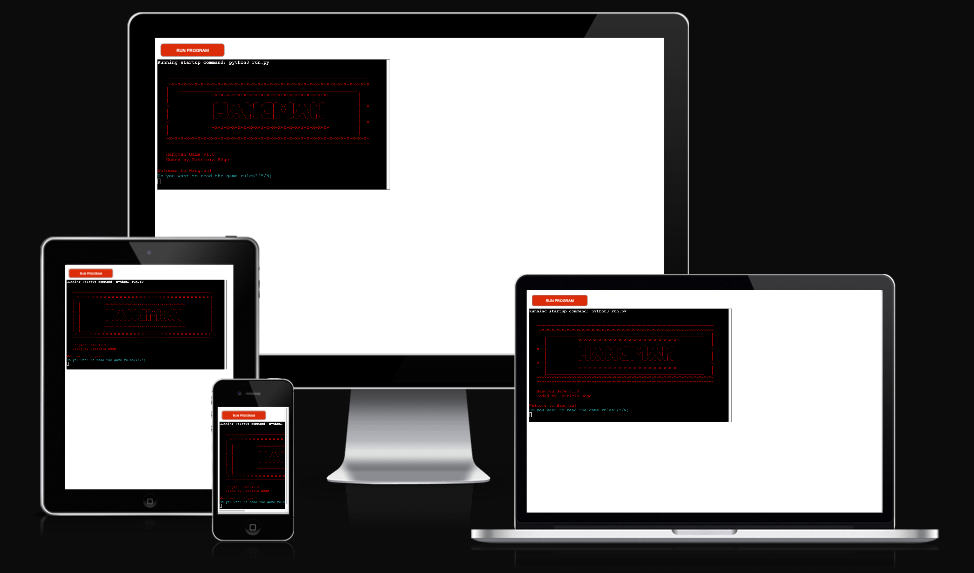
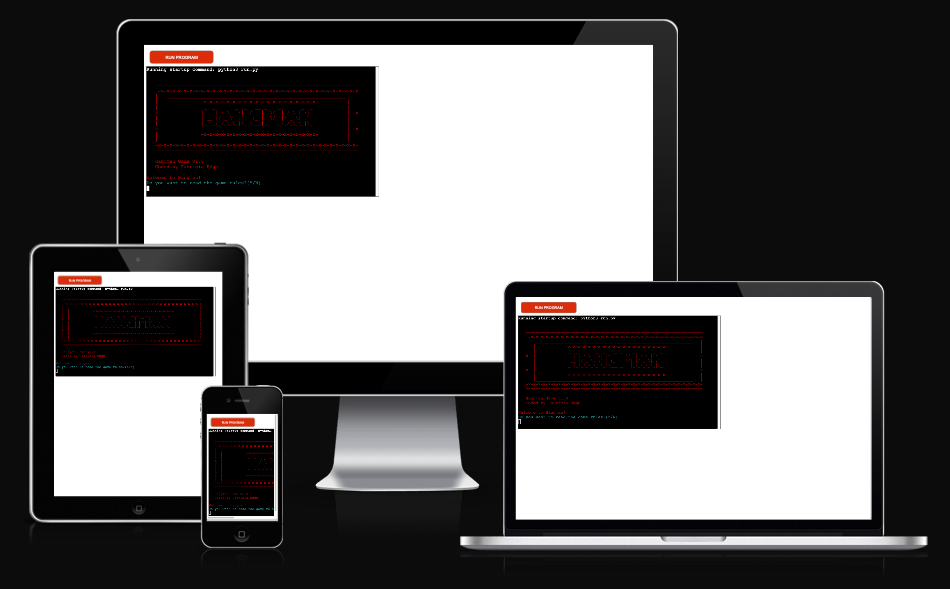
update img in read me file and delete the print word

Changed region(s): [[0.0305, 0.0, 0.9768, 0.9494]]

diff --git a/game_ascii_art.py b/game_ascii_art.py
@@ -46,7 +46,7 @@ RULES = (
    x  |      guessing letters.                                        |  x
    |  |  2 - If too many letters which do not appear in the           |  |
    |  |      word are guessed,the player is hanged and loses.         |  |
-   x  |  3 - As letters in the word are guessed,will be written.      |  x
+   x  |  3 - As letters in the word are guessed, will be written.     |  x
    x  |  4 - The hangman is drawn in 6 parts(for 6 letter guesses)    |  x
    |  |                                                               |  |
    |  |_______________________________________________________________|  |

diff --git a/run.py b/run.py
@@ -95,7 +95,6 @@ def game(word):
         secret_word = display_word(word, guessed_letters)
         print(display_hangman(remaining_attempts))
         print(secret_word)
-        print(word)
 
         if secret_word == word:
             guessed = True

diff --git a/README.md b/README.md
@@ -21,7 +21,7 @@ Once the game is over the user is presented with the option to initiate another 
 + [Features](#features "Features")
   + [Existing Features](#existing-features "Existing Features")
     + [Landing Page](#landing-page "Landing Page")
-    + [Play Again](#play-again "Play Again or Quit App")
+    + [Next Round](#next-round "Play Again or Quit App")
   + [Features Left to Implement](#features-left-to-implement "Features Left to Implement")
 + [Testing](#testing "Testing")
   + [Validator Testing](#validator-testing "Validator Testing")
@@ -59,6 +59,7 @@ New users are encouraged to experiment with the computer-based version of the ol
 ### Future Goals:
 Make the game more challenging by introducing multiple difficulty levels for the user to choose to play and implementing a scoring leaderboard.
 
+[Back to top](<#table-of-contents>)
 ### Mock-up:
 ![App functionality Wireframe](assets/images-readme/mock-up.png)
 
@@ -74,7 +75,7 @@ The landing page displays the title of the game, the name of the developer, and 
 
 #### Possible Outcomes:
 The player may encounter three potential scenarios when making a letter choice: 
-+ The letter `is` present in the word, the letter `is not` part of the word.
++ The letter `is` present in the word, the letter `is not` part of the word. Providing the player with a list of the letters that have been already guessed.
   * ![Possible Outcomes](assets/images-readme/guess-is-in-word.png)
   * ![Possible Outcomes](assets/images-readme/guess-is-not-in-word.png)
 + The letter has been previously guessed by the player. 
@@ -82,8 +83,8 @@ The player may encounter three potential scenarios when making a letter choice:
 + Additionally, any input other than a single letter will be considered invalid, and it will not result in the deduction of a life.
   * ![Possible Outcomes](assets/images-readme/invalid-guess.png)
 
-#### Play Again:
-Whether the player wins or loses the game, a banner of `Play Again` with its current `Victory` or `Game Over` will be displayed. The player has the option to continue playing or quit the game.
+#### Next Round:
+After the game, regardless of whether the player wins or loses, a prompt will appear asking if they wish to continue with their current `Victory` or `Game Over`. The player can choose to keep playing or quit the game.  
   * ![Possible Outcomes](assets/images-readme/victory.png)
   * ![Possible Outcomes](assets/images-readme/game-over.png)
 
@@ -108,6 +109,7 @@ Whether the player wins or loses the game, a banner of `Play Again` with its cur
 
 - Another issue I found was when the text statements from the game were displaying on the console, the hangman stage and the letter were also being affected by their color so I  manually reset the color codes with print(C.Reset) after calling the typewriter() or print()function, I ensure that the colors will not affect the hangman and word in the terminal.
 
+
 ### Remaining Bugs
 * No bugs remaining from far as I know.
 
@@ -124,6 +126,7 @@ Whether the player wins or loses the game, a banner of `Play Again` with its cur
 - [Patorjk](http://patorjk.com/software/taag/#p=display&h=2&v=2&f=Small&t=HANGMAN%0AYOU%20WON!%0AGAME%20OVER%0APLAY%20AGAIN) - to create text to ASCII Art for the logo and banners layout for the game.
 - [Heroku](https://id.heroku.com/)- to deploy the live version of the terminal
 - [Words](https://www.hangmanwords.com/words) -the source of words for the game.
+- [AmIResponsive](https://ui.dev/amiresponsive?url=https://hangmangame-pp3-python-d5764adc1207.herokuapp.com/) - the responsive preview image at the top of the README.md 
 - Random - to randomize the choices of the computer player.
 - Colorama - to add text readability by adding a touch of color to the print statements and overall enhanced user experience.
 
